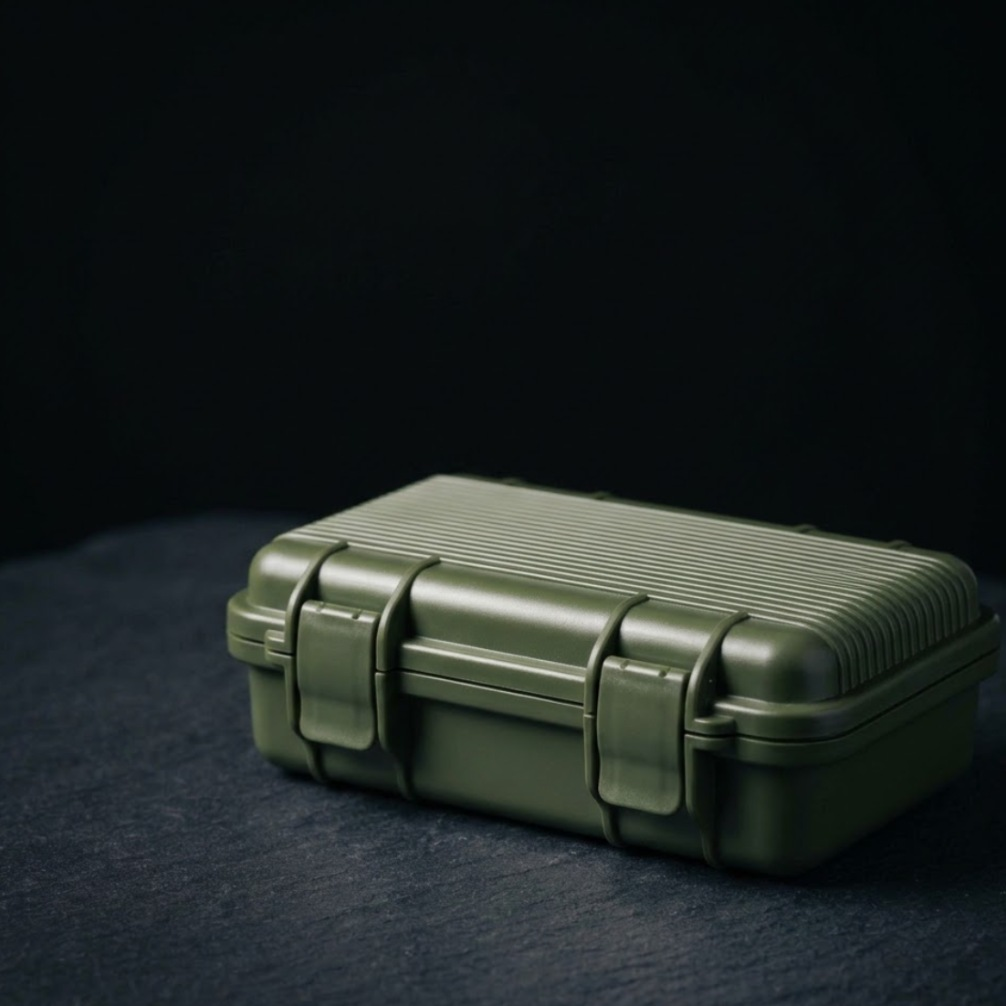
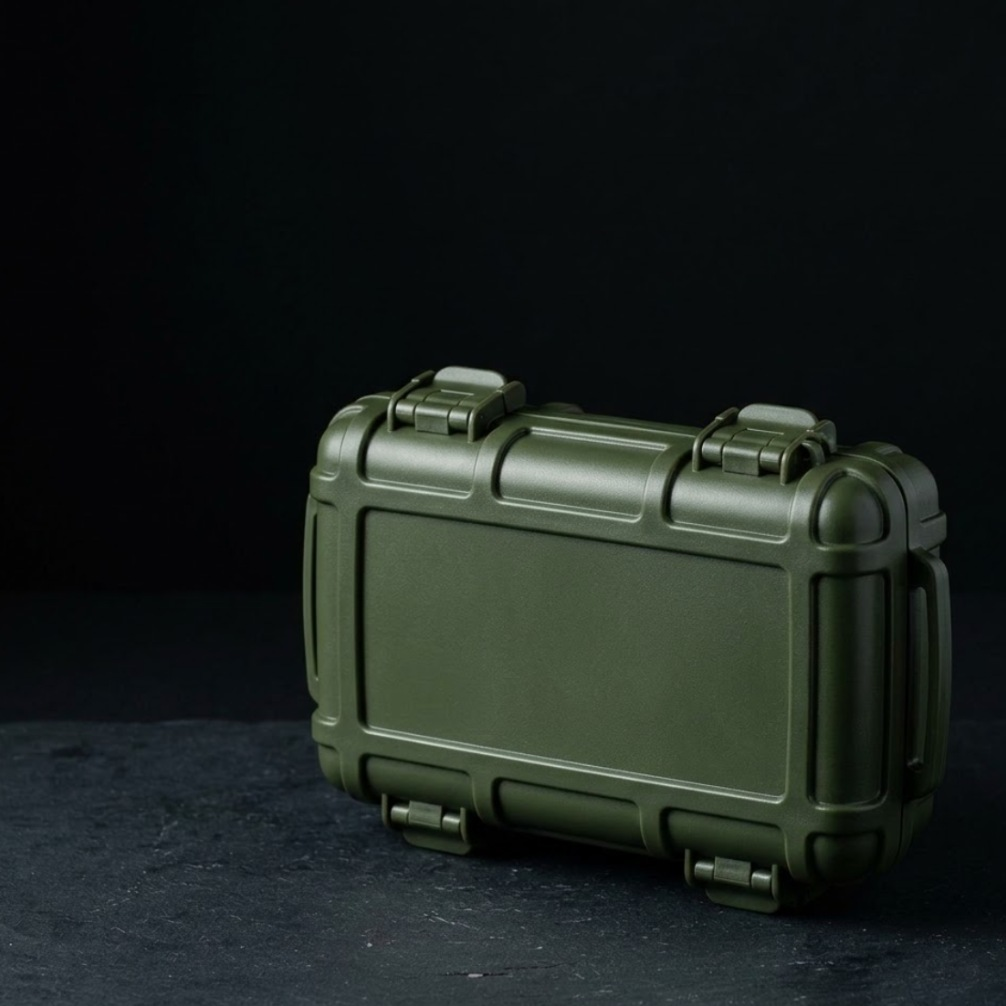
Carousel 13 v3: accurate product images from maker reference photos
Claude-Session: https://claude.ai/code/session_01NDc9TrKsSQw4dbaGwkoFWp

Changed region(s): [[0.0, 0.339, 0.9861, 0.9861], [0.0, 0.8936, 0.1233, 1.0], [0.1541, 0.7704, 0.1849, 0.832]]

diff --git a/docs/social/carousels/13-accessories-explained/source.html b/docs/social/carousels/13-accessories-explained/source.html
@@ -30,7 +30,7 @@ p.b{position:absolute;left:72px;right:300px;bottom:118px;margin:0;font-size:31px
 <div class="big">V<small>a wedge-shaped notch in place of a straight cut.</small></div><h2>V-<i>cutter</i></h2><p class="b">A spring-loaded V-shaped blade. The notch takes off less of the cap than a straight cut.</p>
 <div class="ft lab"><span>The Next Cigar · source: our explanation of the tool</span><span>3 / 12</span></div></div>
 <div class="s"><div class="ph" style="background-image:url(img/punch.jpg)"></div><div class="n lab">03 / 10 · Cutters</div><span class="ai">AI illustration</span>
-<div class="big">9&nbsp;mm<small>the punch set into the base of the Xikar ELX lighter.</small></div><h2>The <i>punch</i></h2><p class="b">A round blade with a fixed diameter that bores a small hole instead of cutting across.</p>
+<div class="big">9&nbsp;mm<small>the punch built into this lighter, the Xikar ELX.</small></div><h2>The <i>punch</i></h2><p class="b">A round blade with a fixed diameter that bores a small hole instead of cutting across.</p>
 <div class="ft lab"><span>The Next Cigar · source: product listing; our explanation</span><span>4 / 12</span></div></div>
 <div class="s"><div class="ph" style="background-image:url(img/torch.jpg)"></div><div class="n lab">04 / 10 · Lighters</div><span class="ai">AI illustration</span>
 <div class="big">−0.5&nbsp;°C<small>n-butane's boiling point at sea-level pressure.</small></div><h2>Torch <i>lighter</i></h2><p class="b">A pressurised jet that wind does not easily blow out. In the cold, tank pressure drops and the flame weakens.</p>

diff --git a/docs/social/carousels/13-accessories-explained/caption.md b/docs/social/carousels/13-accessories-explained/caption.md
@@ -5,7 +5,7 @@
 ## Compliance notes
 - Accessory how-it-works only, described as tools (not step-by-step cutting/lighting instructions). No cigars, no tobacco brands, prices, shops or taste verdicts.
 - The images depict the accessories the site links to with Amazon affiliate links, so the post is marked as advertising: "Reklam · Ad" on slide 1 and in the caption (Marknadsföringslagen 9 §).
-- Images are AI-generated (Google Gemini) from text descriptions only — no Amazon or brand photos used, no logos. "AI illustration" tag on every image slide (EU AI Act Art. 50) + Instagram "AI info" label on when posting.
+- Images are AI-generated (Google Gemini). Xi2, V-Cut, ELX, Verano and Cigar Caddy were generated with the maker's own website photo (xikar.com, colibri.com) as a shape reference, new scene/light/angle, logos removed; torch, humidor, hygrometer and pack from text descriptions. No Amazon images used. "AI illustration" tag on every image slide (EU AI Act Art. 50) + Instagram "AI info" label on when posting.
 - Habanos is not named (tobacco company); its storage figures are cited only here.
 
 ## Caption (paste)
@@ -27,7 +27,7 @@ Full guides: link in bio. The Next Cigar is independent and published from Swede
 |---|---|---|
 | 02 | Single- and double-bladed cutters | Cigar Aficionado, How to cut a cigar |
 | 03, 06, 11 | Tool mechanics | Our explanation (labelled) |
-| 04 | Xikar ELX has a 9 mm punch | Retailer listings (Neptune; Amazon B01MRLC3R2 title) |
+| 04 | Xikar ELX has a 9 mm punch (image shows the ELX) | Retailer listings (Neptune; Amazon B01MRLC3R2 title) |
 | 05 | n-butane boils ~272.7 K (−0.5 °C) at 1 atm | NIST WebBook |
 | 07 | "a strip of cedar" | Cigar Aficionado, How to light a cigar |
 | 08 | 65–70% RH, 16–18 °C; keep temperature constant | habanos.com, Keeping Habanos |
@@ -36,3 +36,5 @@ Full guides: link in bio. The Next Cigar is independent and published from Swede
 
 ## Double-check
 v1 checked 6 Nov (6 fixes). v2 independent check 6 Nov 2026: fixed "some torch lighters" → ELX; butane at sea-level pressure; hygrometer error "near 75%"; travel case wording; "Tested, photographed" → "Researched and sourced"; slides 2–7 reworded from cutting/lighting instructions to tool descriptions (KOVFS risk). Double-checked on 6 Nov 2026: ready to post.
+
+v3 (6 Nov): five images regenerated from maker reference photos after Cris flagged inaccurate products; punch slide text now 'the punch built into this lighter, the Xikar ELX.'
